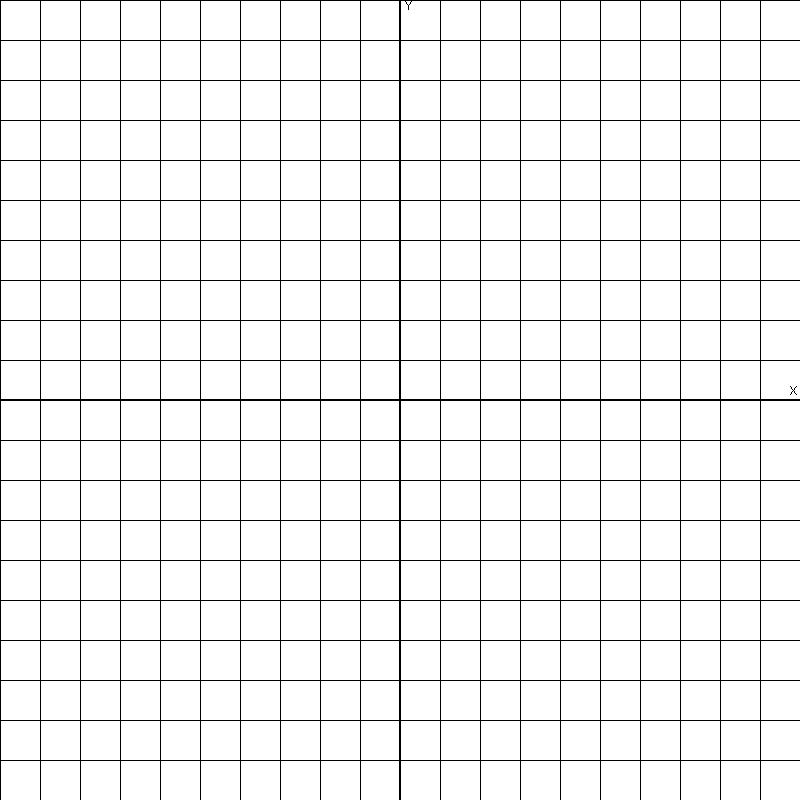
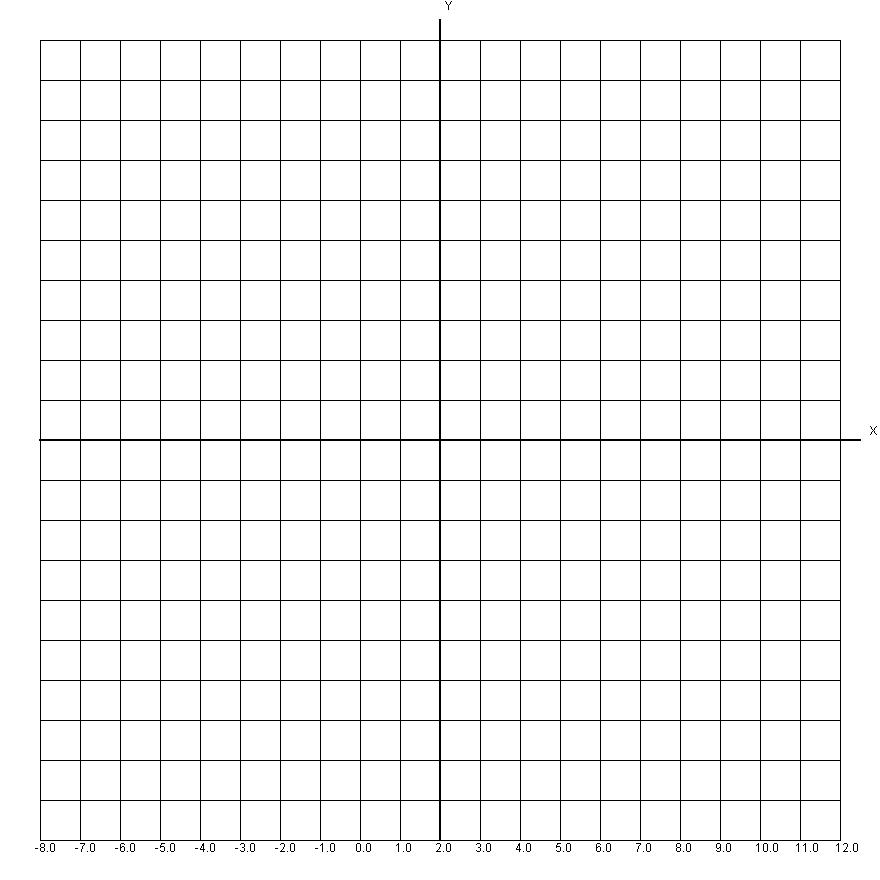
New form added

Changed region(s): [[0.0312, 0.0, 1.0, 0.9688]]

diff --git a/src/CartesianSystem.java b/src/CartesianSystem.java
@@ -7,25 +7,30 @@ import javax.imageio.ImageIO;
 
 public class CartesianSystem {
     public static void main(String[] args) throws IOException {
-        final int width = 800;
-        final int height = 800;
-        final int step = width/20;
-        BufferedImage bufferedImage = new BufferedImage(width, height, BufferedImage.TYPE_INT_RGB);
+        final int height = 880;
+        final int step = height / 22;
+        double leftBorder = -10;
+        double rightBorder = 10;
+        String s = "";
+        BufferedImage bufferedImage = new BufferedImage(height, height, BufferedImage.TYPE_INT_RGB);
         Graphics2D g2d = bufferedImage.createGraphics();
         g2d.setColor(Color.white);
-        g2d.fillRect(0, 0, width, height);
+        g2d.fillRect(0, 0, height, height);
         g2d.setColor(Color.black);
-        for (int i = 0; i < width; i += step) {
-            g2d.drawLine(i, 0, i, height);
+        for (int i = step; i <= height - step; i += step) {
+            g2d.drawLine(i, step, i, height - step);
         }
-        for (int i = 0; i < width; i += step) {
-            g2d.drawLine(0, i, width, i);
+        for (int i = step; i <= height - step; i += step) {
+            double countX = Math.abs(rightBorder - leftBorder) / 20.0 + i / step + leftBorder; //????
+            s = String.valueOf(countX);
+            g2d.drawLine(step, i, height - step, i);
+            g2d.drawString(s, i - 5, height - step + 12);
         }
         g2d.setStroke(new BasicStroke(2.0f));
-        g2d.drawLine(width / 2, 0, width / 2, height);
-        g2d.drawLine(0, height / 2, width, height / 2);
-        g2d.drawString("X", width - 10, height / 2 - 5);
-        g2d.drawString("Y", width / 2 + 5, 10);
+        g2d.drawLine(height / 2, step / 2, height / 2, height - step);
+        g2d.drawLine(step, height / 2, height - step / 2, height / 2);
+        g2d.drawString("X", height - 10, height / 2 - 5);
+        g2d.drawString("Y", height / 2 + 5, 10);
 //        int[] xArray = {}; Здесь будут параметры, которые мы будем получать из метода интерфейса
 //        int[] yArray = {};
 //        int nPoint = eps; необходимая нам точность в построении, (угловатость графика)
@@ -34,9 +39,9 @@ public class CartesianSystem {
 //        g.setColor(Color.black);
 //        g.drawString("y = f(x)",,); хз как подписать график (необходимо узнать позиуию постановки надписи)
         g2d.dispose();
-        File file = new File("D://Projects/FunctionsPainter/ResultImage/PngImage.png");
+        File file = new File("ResultImage/PngImage.png");
         ImageIO.write(bufferedImage, "png", file);
-        file = new File("D://Projects/FunctionsPainter/ResultImage/JpgImage.jpg");
+        file = new File("ResultImage/JpgImage.jpg");
         ImageIO.write(bufferedImage, "jpg", file);
     }
 }
